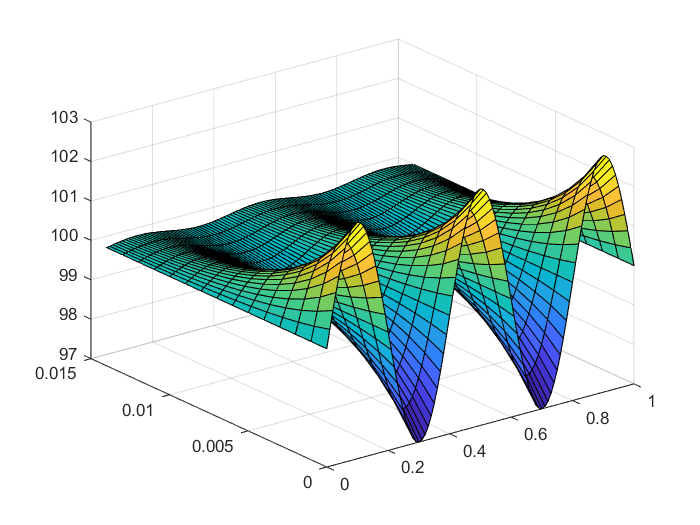
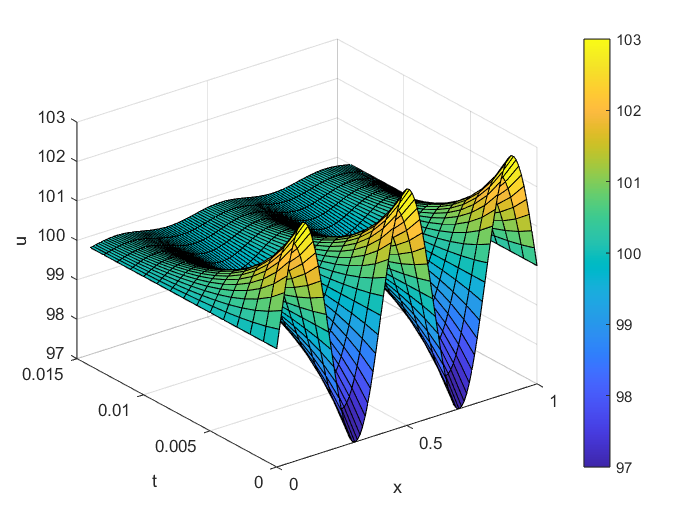
20 MAY 04:36 commit

diff --git a/test6/test6.m b/test6/test6.m
@@ -10,9 +10,8 @@ uxt = 3*sin(5*pi*X).*exp(-(5*pi)^2*T)+100;
 
 % 绘制图像
 figure;
-contourf(X,T,uxt,20);
+surf(x,t,uxt);
 colorbar;
 xlabel('x');
 ylabel('t');
-
-surf(x,t,uxt);
+zlabel('u');
